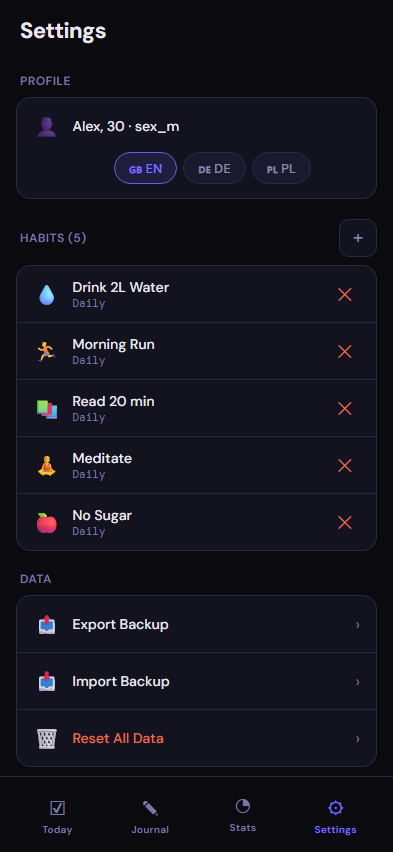
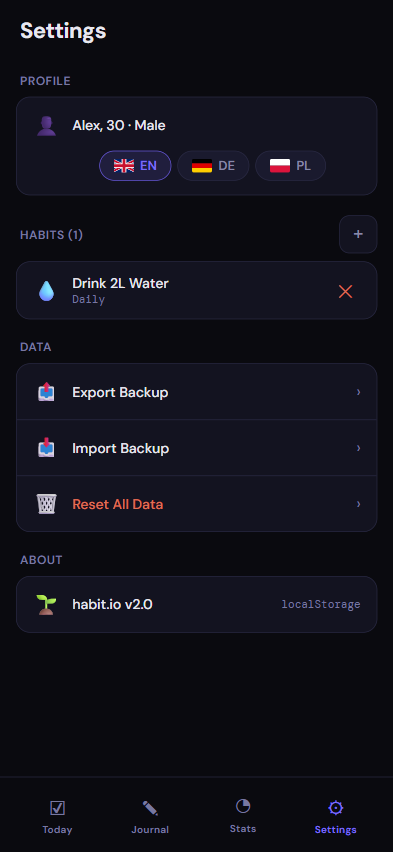
docs: retake screenshots after UI changes + add screenshot rule to CLAUDE.md
- Refreshed screenshot-onboarding.png — shows 👨/👩 sex buttons and SVG flags
- Refreshed screenshot-settings.png — shows SVG flag chips and correct profile display
- CLAUDE.md pre-commit checklist: added rule to retake affected screenshots
  whenever a UI change is made and include them in the same commit

diff --git a/CLAUDE.md b/CLAUDE.md
@@ -92,8 +92,9 @@ Never change the storage key without migration — users must not lose their hab
 
 ## Pre-Commit Checklist
 
-**Always do both before committing:**
+**Always do all of these before committing:**
 
 1. **Run tests**: `yarn test` — all projects (Desktop, Mobile, Tablet) must pass
-2. **Check PageSpeed**: download the latest Lighthouse artifact from the most recent CI run (`gh run download <run-id> --name lighthouse-results --dir /tmp/lh-results`) and verify no new audit regressions before committing
-3. **Bump version key**: if `app.js`, `styles.css`, `suggestions.js`, or `index.html` changed, increment the version in both `app.js` localStorage key and `CACHE` in `sw.js` to the same value (e.g. both `habitio_v4` → `habitio_v5`), and add a migration read in `load()` for the old key
+2. **Update screenshots**: if any UI change was made (layout, colours, new screens, copy), retake the affected screenshots in `docs/` using Playwright at 393×852 (mobile) and include them in the same commit
+3. **Check PageSpeed**: download the latest Lighthouse artifact from the most recent CI run (`gh run download <run-id> --name lighthouse-results --dir /tmp/lh-results`) and verify no new audit regressions before committing
+4. **Bump version key**: if `app.js`, `styles.css`, `suggestions.js`, or `index.html` changed, increment the version in both `app.js` localStorage key and `CACHE` in `sw.js` to the same value (e.g. both `habitio_v4` → `habitio_v5`), and add a migration read in `load()` for the old key
